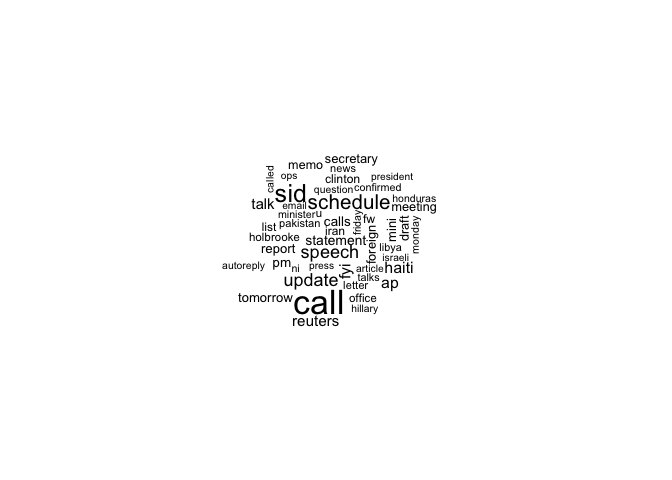
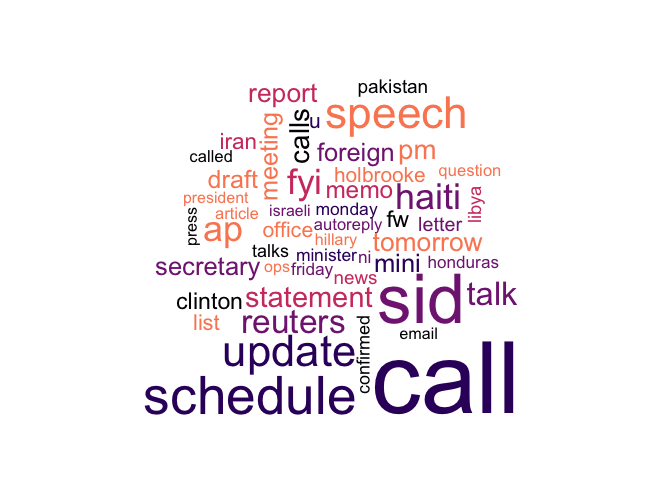
sentiment analysis

Changed region(s): [[0.2188, 0.1562, 0.7812, 0.875]]

diff --git a/README.md b/README.md
@@ -11,7 +11,7 @@ Some info about the data
 
 -   There are just under 8,000 emails in this data set <br>
 -   Kaggle performed some processing to extract and clean the emails<br>
--   The code that prepared the data is available at <a href="https://github.com/benhamner/hillary-clinton-emails">this GitHub Repo</a>
+-   The code that prepared the data is available at <a href="https://github.com/benhamner/hillary-clinton-emails" target="_blank">this GitHub Repo</a>
 
 <!-- -->
 
@@ -27,6 +27,8 @@ Some info about the data
     ##     intersect, setdiff, setequal, union
 
     ## Loading required package: RColorBrewer
+
+    ## Loading required package: viridisLite
 
     ## Observations: 7,945
     ## Variables: 22
@@ -86,13 +88,15 @@ tidy.email.subject %>%
 tidy.email.subject %>%
     mutate(word = str_extract(word, "[a-z']+")) %>%
     count(word) %>%
-    with(wordcloud(word, n, max.words = 50))
+    with(wordcloud(word, n, scale=c(13, .5), max.words = 50, random.color = TRUE, colors=my.colors2))
 ```
 
 ![](README_files/figure-markdown_github/subject%20word%20count%20plot-2.png)
 
 Haiti vs. Iran
 --------------
+
+-   Each word is rated as either positive or negative for this examination using bing taxonomy
 
 The prior plot showed that Haiti and Iran were the two countries that showed up most frequently in email's subjects
 
@@ -138,3 +142,140 @@ So let's compare the words in those emails:
     ## Warning: Removed 1561 rows containing missing values (geom_text).
 
 ![](README_files/figure-markdown_github/unnamed-chunk-1-1.png)
+
+Everybody loves a wordcloud - More on Haiti vs. Iran
+----------------------------------------------------
+
+``` r
+iran.email %>%
+    mutate(word = str_extract(word, "[a-z']+")) %>%
+    count(word) %>%
+    with(wordcloud(word, n, scale=c(75, .5) ,max.words = 50, random.color = TRUE, colors=my.colors2))
+```
+
+    ## Warning in wordcloud(word, n, scale = c(75, 0.5), max.words = 50,
+    ## random.color = TRUE, : iran could not be fit on page. It will not be
+    ## plotted.
+
+![](README_files/figure-markdown_github/unnamed-chunk-2-1.png)
+
+``` r
+haiti.email %>%
+    mutate(word = str_extract(word, "[a-z']+")) %>%
+    count(word) %>%
+    with(wordcloud(word, n, scale=c(13, .5) ,max.words = 50, random.color = TRUE, colors=my.colors3))
+```
+
+![](README_files/figure-markdown_github/unnamed-chunk-2-2.png)
+
+Sentiment Analysis of Haiti and Iran emails
+-------------------------------------------
+
+``` r
+haiti.email.sentiment <- email %>% 
+    filter(grepl("haiti", MetadataSubject, ignore.case = TRUE)) %>%
+    group_by(Id) %>%
+    mutate(index = row_number()) %>%
+    ungroup() %>%
+    unnest_tokens(word, ExtractedBodyText) 
+
+bingPositive <- get_sentiments("bing") %>%
+    filter(sentiment == "positive")
+
+haiti.email.sentiment2 <- haiti.email.sentiment %>%
+    inner_join(get_sentiments("bing")) %>%
+    count(Id, sentiment) %>%
+    spread(sentiment, n, fill=0) %>%
+    mutate(sentiment = positive - negative)
+```
+
+    ## Joining, by = "word"
+
+``` r
+haiti.index <- 1:52
+df.haiti <- as.data.frame(haiti.email.sentiment2)
+df.haiti <- cbind(df.haiti, haiti.index)
+haiti.email.sentiment2 <- tbl_df(df.haiti)
+
+ggplot(haiti.email.sentiment2, aes(haiti.index, sentiment)) +
+    geom_col(show.legend = TRUE, color = "green") 
+```
+
+![](README_files/figure-markdown_github/unnamed-chunk-3-1.png)
+
+``` r
+iran.email.sentiment <- email %>% 
+    filter(grepl("iran", MetadataSubject, ignore.case = TRUE)) %>%
+    group_by(Id) %>%
+    mutate(index = row_number()) %>%
+    ungroup() %>%
+    unnest_tokens(word, ExtractedBodyText) 
+
+bingPositive <- get_sentiments("bing") %>%
+    filter(sentiment == "positive")
+
+iran.email.sentiment2 <- iran.email.sentiment %>%
+    inner_join(get_sentiments("bing")) %>%
+    count(Id, sentiment) %>%
+    spread(sentiment, n, fill=0) %>%
+    mutate(sentiment = positive - negative)
+```
+
+    ## Joining, by = "word"
+
+``` r
+iran.index <- 1:30
+df.iran <- as.data.frame(iran.email.sentiment2)
+df.iran <- cbind(df.iran, iran.index)
+iran.email.sentiment2 <- tbl_df(df.iran)
+
+ggplot(iran.email.sentiment2, aes(iran.index, sentiment)) +
+    geom_col(show.legend = TRUE, color = "red")
+```
+
+![](README_files/figure-markdown_github/unnamed-chunk-3-2.png)
+
+Comparing the taxonomies
+------------------------
+
+-   Afinn and Bing and NRC use different methods. Let's see how they compare:
+
+``` r
+iran.afinn <- iran.email.sentiment %>%
+    inner_join(get_sentiments("afinn")) %>%
+    group_by(Id) %>%
+    summarise(sentiment = sum(score)) %>%
+    mutate(method = "AFINN")
+```
+
+    ## Joining, by = "word"
+
+``` r
+iran.afinn <- iran.afinn %>% tibble::rownames_to_column(var = "index1")
+    
+iran.bing.and.nrc <- bind_rows(iran.email.sentiment %>%
+                                   inner_join(get_sentiments("bing")) %>%
+                                   mutate(method = "Bing"),
+                               iran.email.sentiment %>%
+                                   inner_join(get_sentiments("nrc") %>%
+                                                  filter(sentiment %in% c("positive", 
+                                                                          "negative"))) %>%
+                                   mutate(method = "NRC")) %>%
+                    count(method, index = Id, sentiment) %>%
+                        spread(sentiment, n, fill = 0) %>%
+                        mutate(sentiment = positive - negative)
+```
+
+    ## Joining, by = "word"
+    ## Joining, by = "word"
+
+``` r
+iran.bing.and.nrc <- iran.bing.and.nrc %>% tibble::rownames_to_column(var = "index1")
+                    
+bind_rows(iran.afinn, iran.bing.and.nrc) %>%
+    ggplot(aes(index1, sentiment, fill = method)) +
+    geom_col(show.legend = FALSE) +
+    facet_wrap(~method, ncol = 1, scales = "free_y")
+```
+
+![](README_files/figure-markdown_github/unnamed-chunk-4-1.png)
